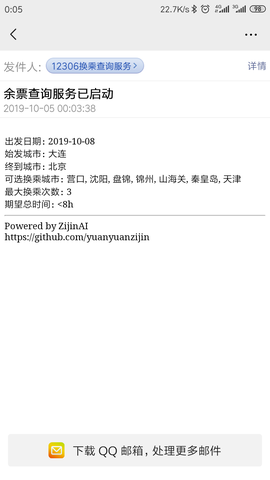
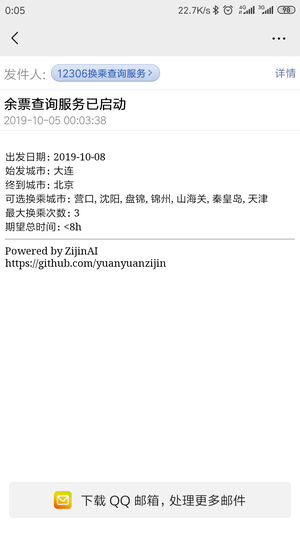
resize screenshots

diff --git a/image.py b/image.py
@@ -1,0 +1,17 @@
+from PIL import Image
+
+origin_image_dir = "E:\\code\\12306transfer\\origin_imgs\\"
+target_image_dir = "E:\\code\\12306transfer\\imgs\\"
+
+for i in range(1, 5):
+    img = origin_image_dir + '%d.png' % i
+    img_new = target_image_dir + '%d.png' % i
+    im = Image.open(img)
+    (x, y) = im.size
+    if i in [1, 2]:
+        x_s = 600
+    else:
+        x_s = 300
+    y_s = int(y * x_s / x)
+    out = im.resize((x_s, y_s), Image.ANTIALIAS)
+    out.save(img_new)
